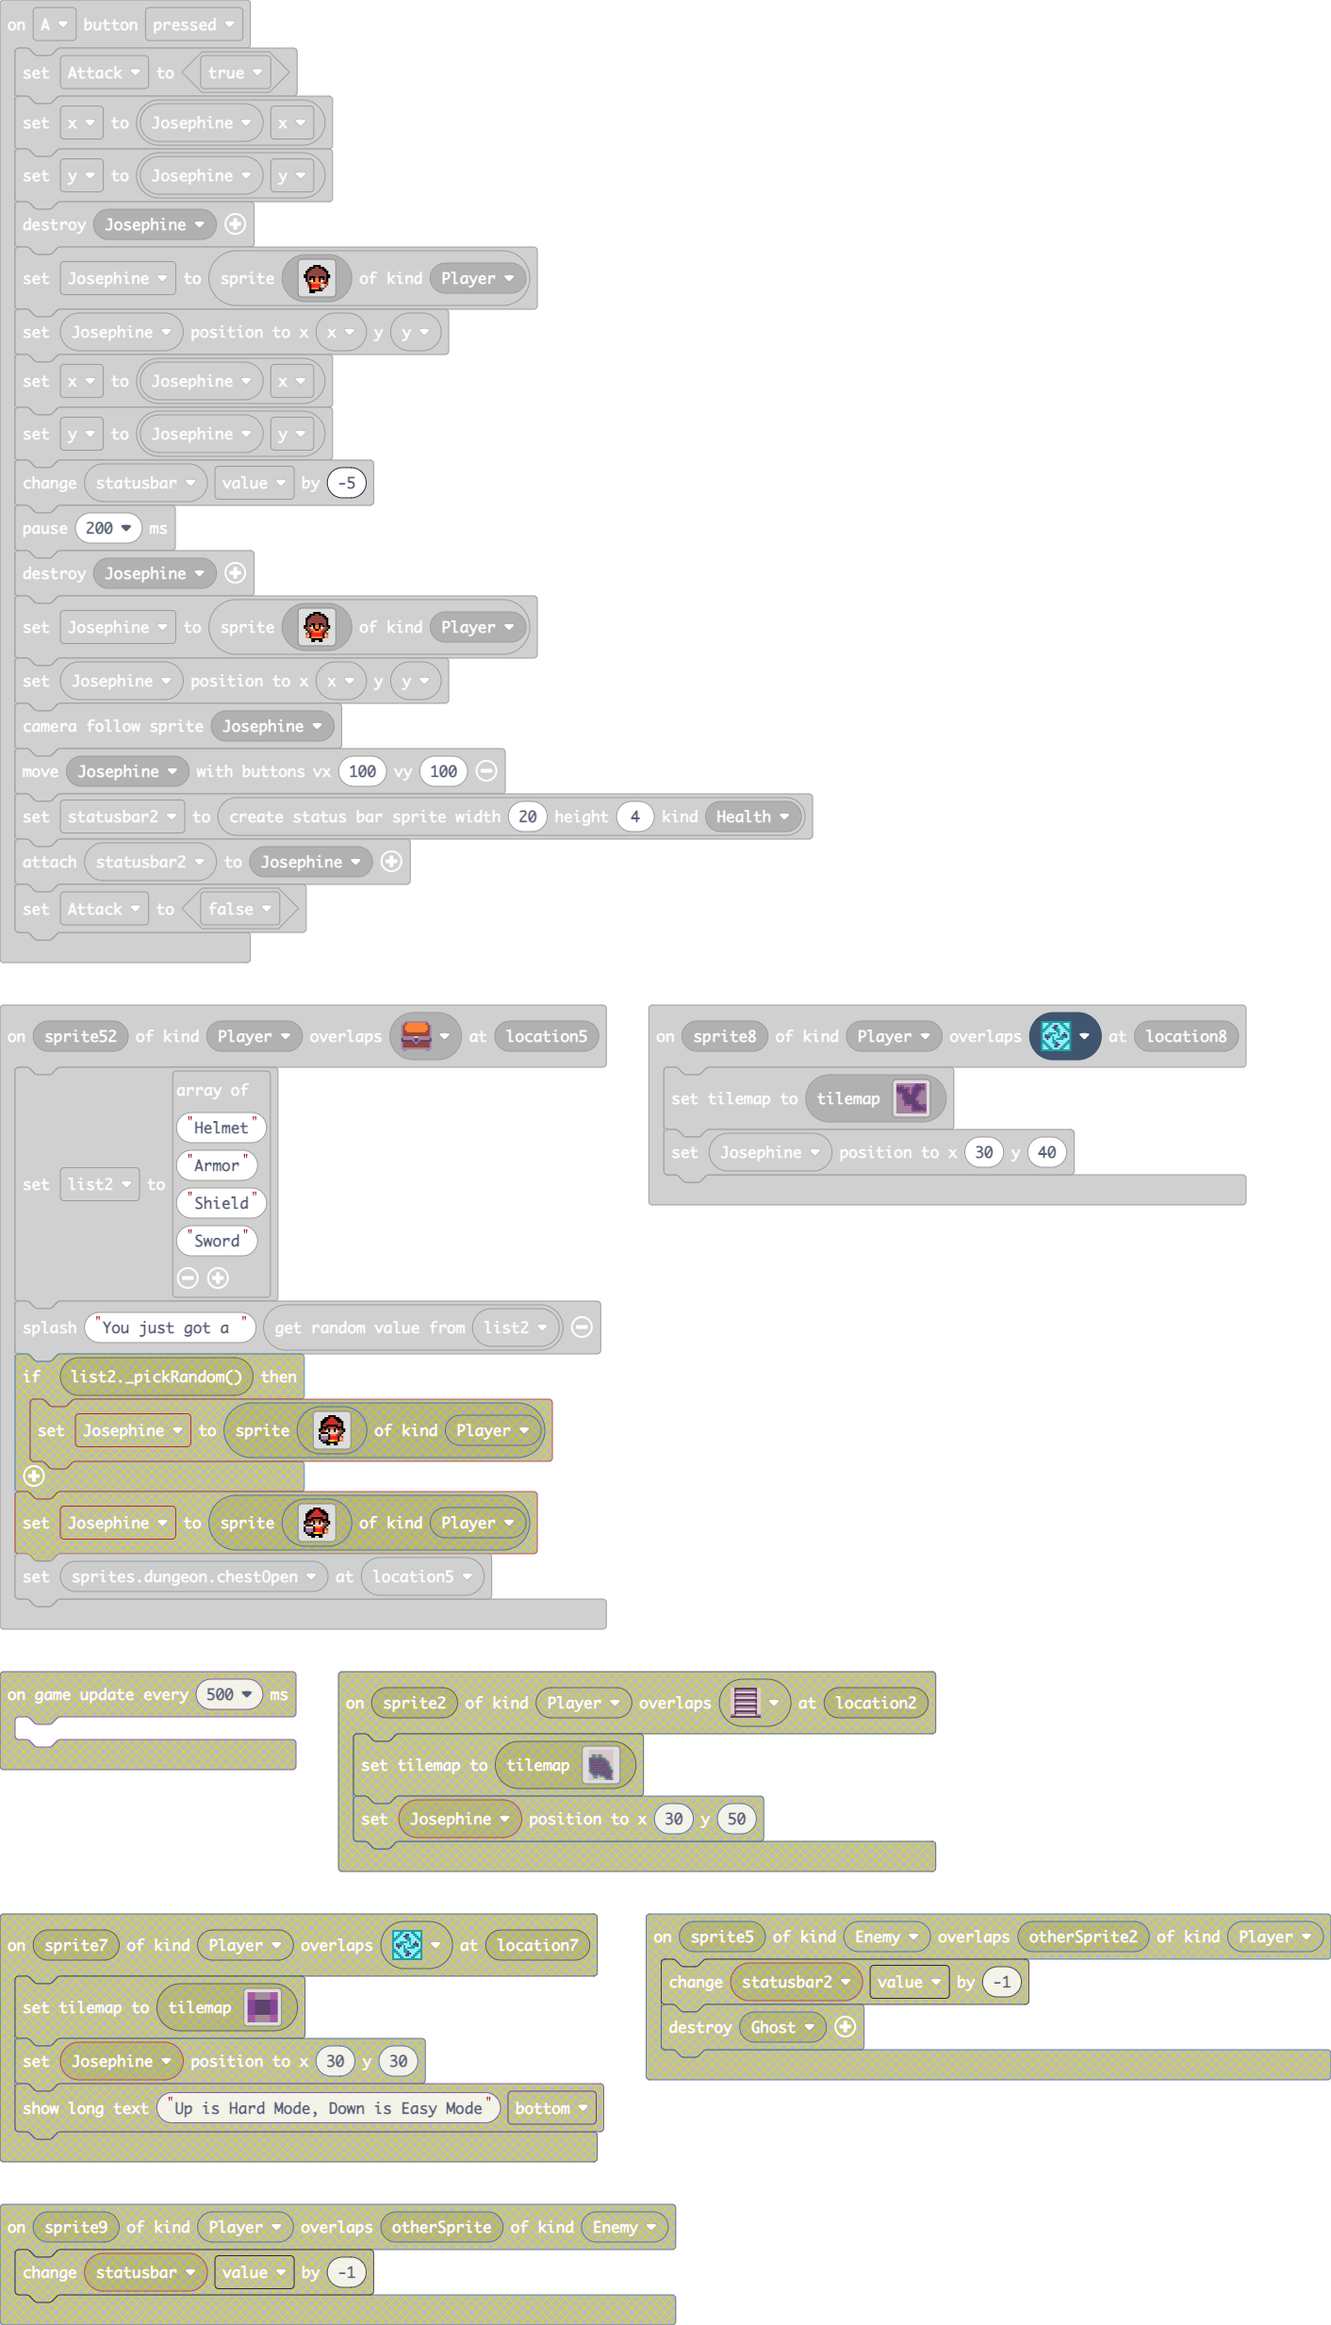
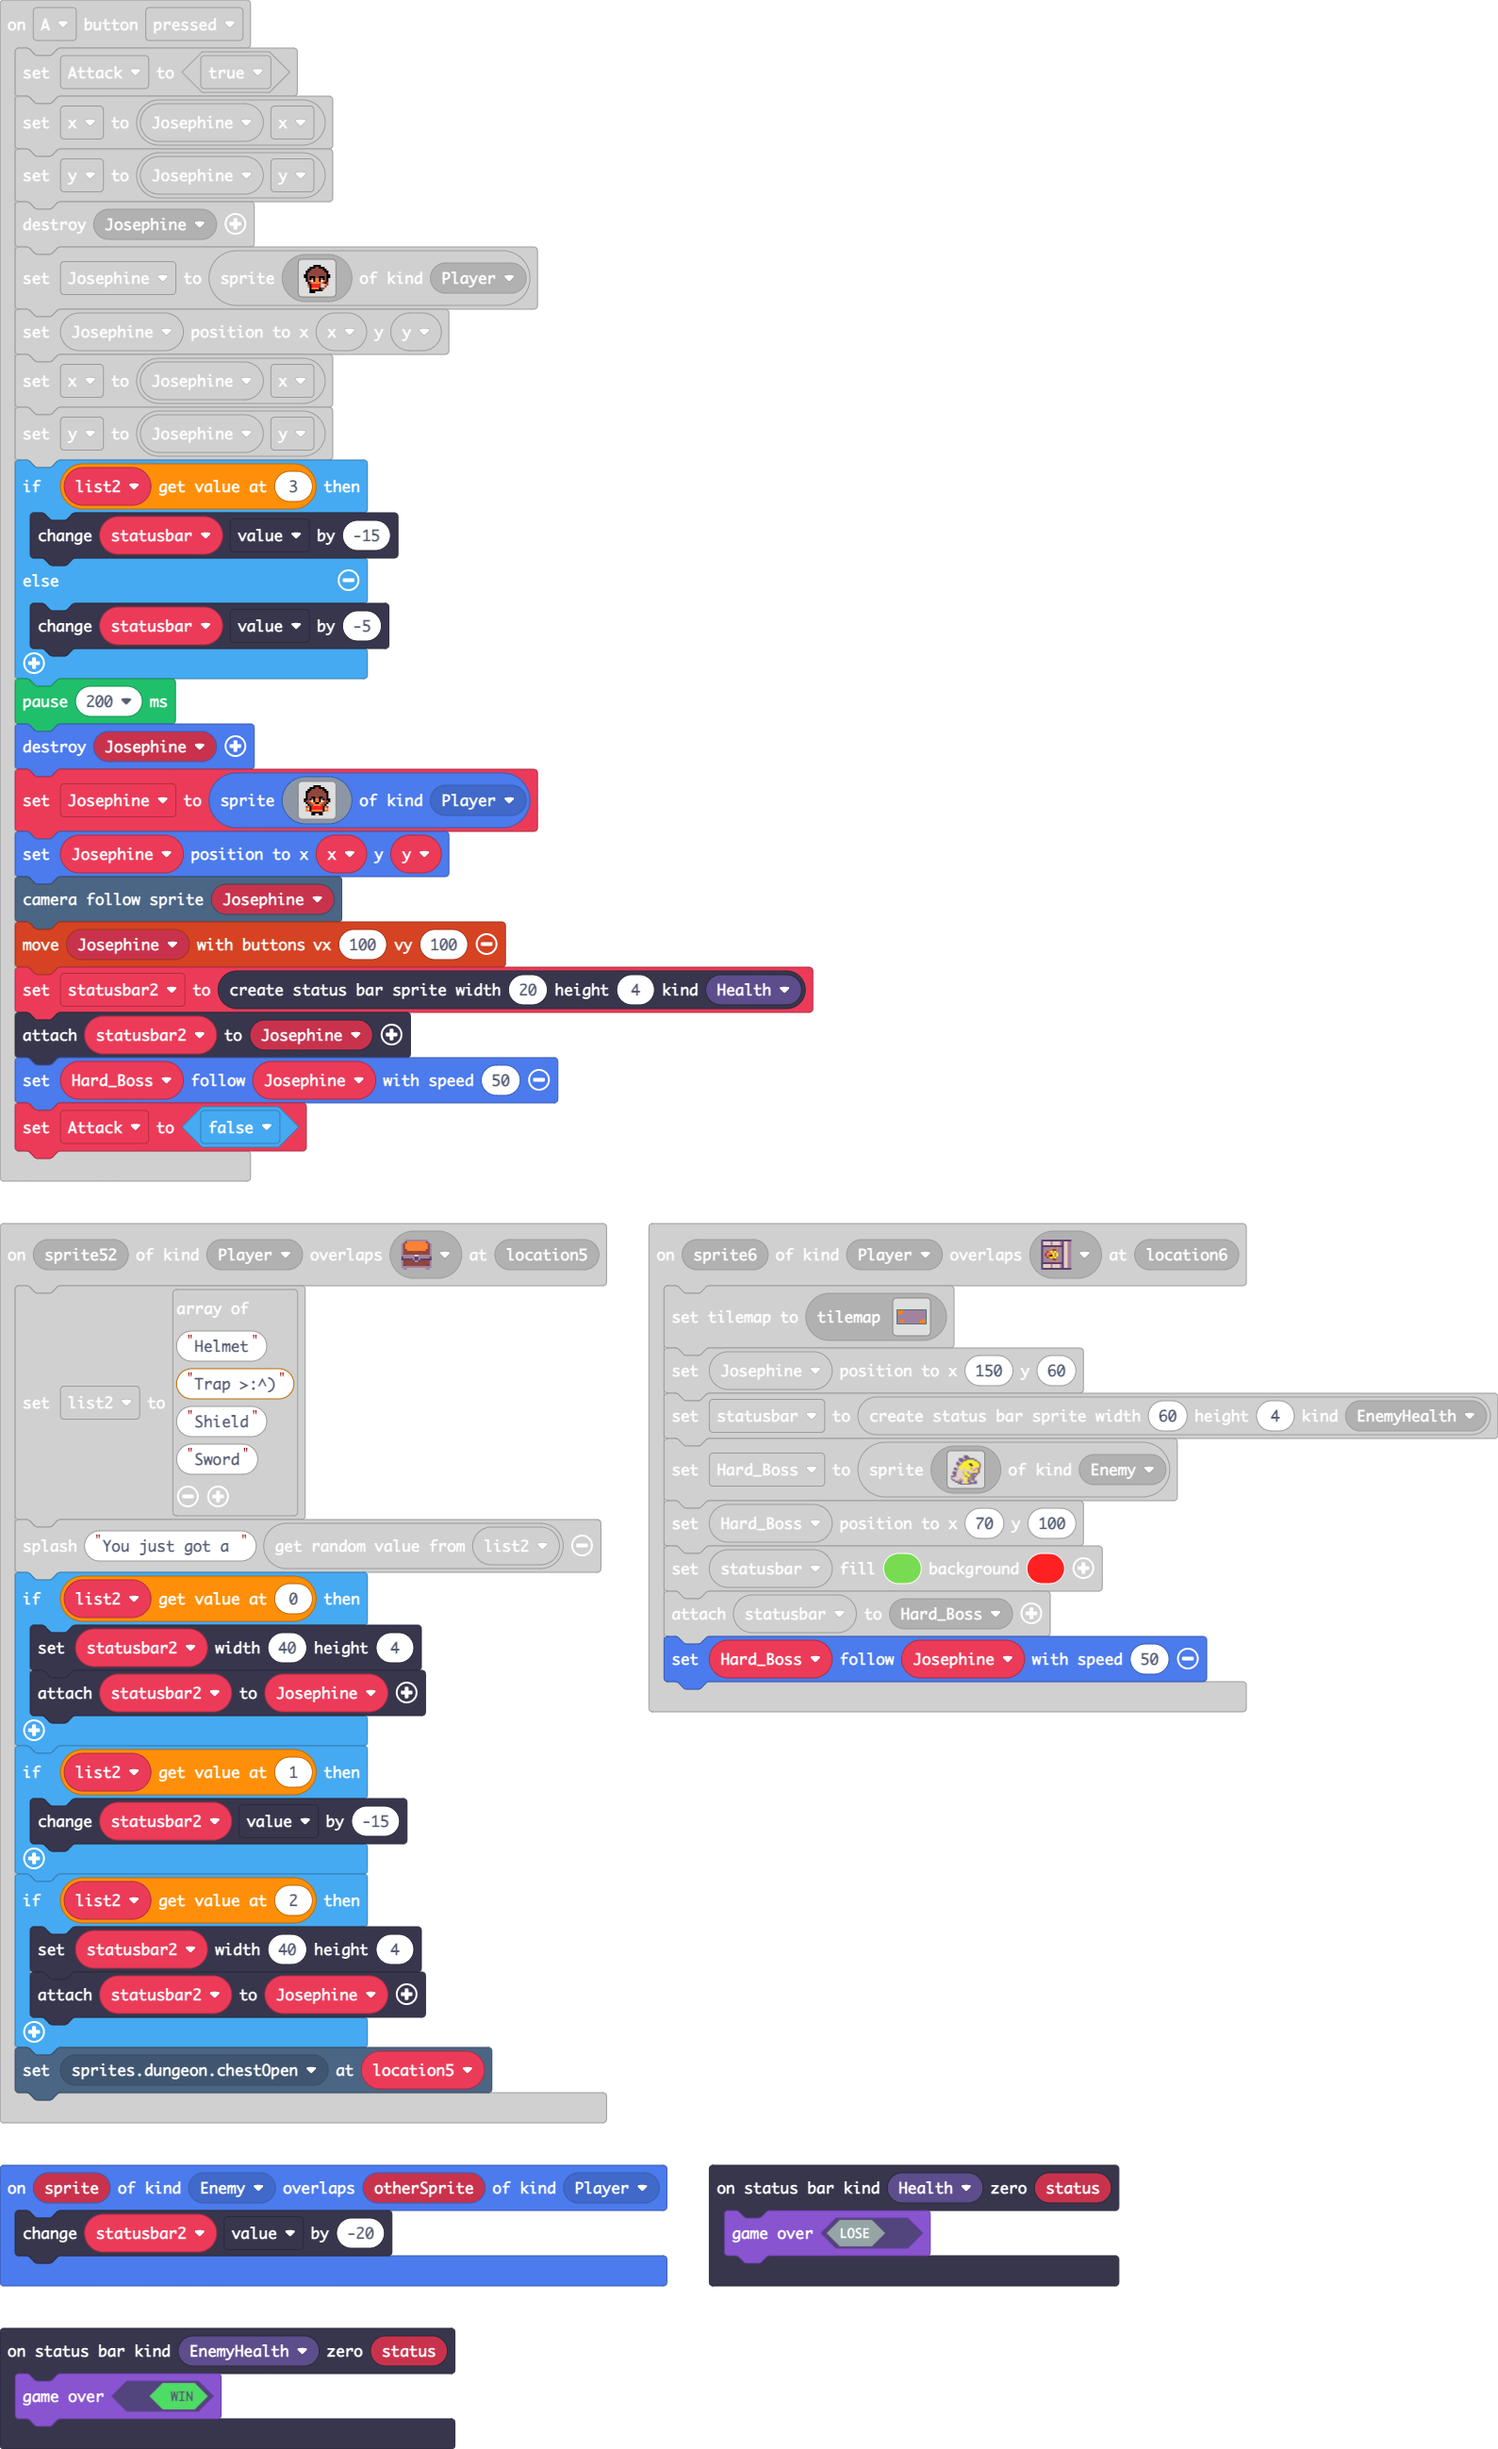
Update main.blocks, main.ts

diff --git a/main.ts b/main.ts
@@ -12,11 +12,22 @@ scene.onOverlapTile(SpriteKind.Player, sprites.dungeon.collectibleInsignia, func
 scene.onOverlapTile(SpriteKind.Player, sprites.dungeon.chestClosed, function (sprite52, location5) {
     list2 = [
     "Helmet",
-    "Armor",
+    "Trap >:^)",
     "Shield",
     "Sword"
     ]
     game.splash("You just got a ", list2._pickRandom())
+    if (list2[0]) {
+        statusbar2.setBarSize(40, 4)
+        statusbar2.attachToSprite(Josephine)
+    }
+    if (list2[1]) {
+        statusbar2.value += -15
+    }
+    if (list2[2]) {
+        statusbar2.setBarSize(40, 4)
+        statusbar2.attachToSprite(Josephine)
+    }
     tiles.setTileAt(location5, sprites.dungeon.chestOpen)
 })
 controller.A.onEvent(ControllerButtonEvent.Pressed, function () {
@@ -45,7 +56,11 @@ controller.A.onEvent(ControllerButtonEvent.Pressed, function () {
     Josephine.setPosition(x, y)
     x = Josephine.x
     y = Josephine.y
-    statusbar.value += -5
+    if (list2[3]) {
+        statusbar.value += -15
+    } else {
+        statusbar.value += -5
+    }
     pause(200)
     sprites.destroy(Josephine)
     Josephine = sprites.create(img`
@@ -71,15 +86,25 @@ controller.A.onEvent(ControllerButtonEvent.Pressed, function () {
     controller.moveSprite(Josephine, 100, 100)
     statusbar2 = statusbars.create(20, 4, StatusBarKind.Health)
     statusbar2.attachToSprite(Josephine)
+    Hard_Boss.follow(Josephine, 50)
     Attack = false
+})
+statusbars.onZero(StatusBarKind.EnemyHealth, function (status) {
+    game.gameOver(true)
 })
 scene.onOverlapTile(SpriteKind.Player, sprites.dungeon.hazardLava0, function (sprite3, location3) {
     statusbar2.value += -1
+})
+statusbars.onZero(StatusBarKind.Health, function (status) {
+    game.gameOver(false)
 })
 scene.onOverlapTile(SpriteKind.Player, sprites.dungeon.doorOpenEast, function (sprite4, location4) {
     tiles.setCurrentTilemap(tilemap`Corridor`)
     Josephine.setPosition(10, 125)
     game.showLongText("Welcome to the Dungeons! Get through and kill all the enemies in your way to get out! Good Luck!!", DialogLayout.Bottom)
+})
+sprites.onOverlap(SpriteKind.Enemy, SpriteKind.Player, function (sprite, otherSprite) {
+    statusbar2.value += -20
 })
 scene.onOverlapTile(SpriteKind.Player, sprites.dungeon.doorLockedEast, function (sprite6, location6) {
     tiles.setCurrentTilemap(tilemap`Boss Room`)
@@ -89,6 +114,7 @@ scene.onOverlapTile(SpriteKind.Player, sprites.dungeon.doorLockedEast, function 
     Hard_Boss.setPosition(70, 100)
     statusbar.setColor(7, 2)
     statusbar.attachToSprite(Hard_Boss)
+    Hard_Boss.follow(Josephine, 50)
 })
 let Hard_Boss: Sprite = null
 let statusbar: StatusBarSprite = null
